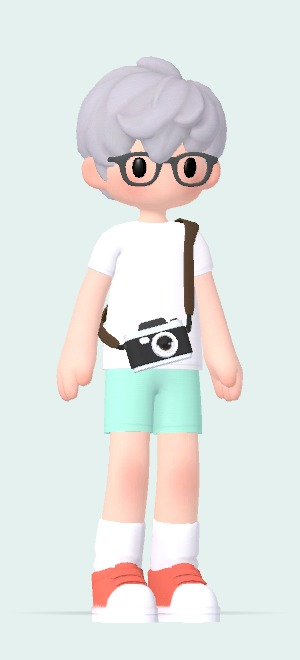
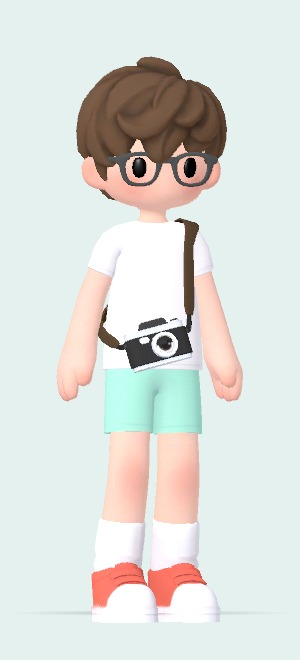
art: SGODOT-284 resident portraits, second batch — Granny Wu, Ivo and Tomo's new hair
Granny Wu and Ivo cards (new, with import files) and Tomo's card redrawn with his warm dark brown hair, all on #407's
NPC parts (head 00ab44be); portrait_crops.json now covers eleven residents; the eleven-resident review sheets and the
looks used. Visual review: 不知火舞 on SGODOT-284 (87e87ff2, e07d1a16).

Changed region(s): [[0.24, 0.0606, 0.78, 0.303]]

diff --git a/docs/design/resident-portraits-284-2026-10-14/README.md b/docs/design/resident-portraits-284-2026-10-14/README.md
@@ -36,3 +36,11 @@ This batch is the nine residents whose look exists today: Pip, Old Kai, Rafa, Ha
 
 ## Integration
 Only the runtime files go to farm-dev: the nine JPGs, their `.import` files and `portrait_crops.json`. The script and this folder stay on wp-3d-scene. 苏烈 then wires the stamp, the dialogue bar fallback and the profile face.
+
+## Second batch (2026-10-14): Granny Wu, Ivo, Tomo
+Drawn with the NPC parts of #407 (head 00ab44be), looks in `looks-final-granny-ivo-tomo.json`.
+- Granny Wu: `hairhat80_npc_granny_wu` (silver-white bun, red pin) with cloth11 and shoes5.
+- Ivo: `hairhat_npc_ivo` (mustard hard hat, brass lamp), `mask16_npc_ivo` (short grey beard), `cloth1_npc_ivo` (canvas shirt, charcoal shorts) and shoes3.
+- Tomo: `hairhat0_npc_tomo` (warm dark brown, so he no longer reads as a new player in the default look), with glass0, cloth0, shoes2 and messengerbag3. His card replaces the first batch's.
+
+`portrait_crops.json` now has eleven keys. `residents-11-cards.png` and `residents-11-stamps.png` show all eleven in table order (Mira is not in P1). Visual review: 不知火舞 on SGODOT-284 (87e87ff2, e07d1a16).
